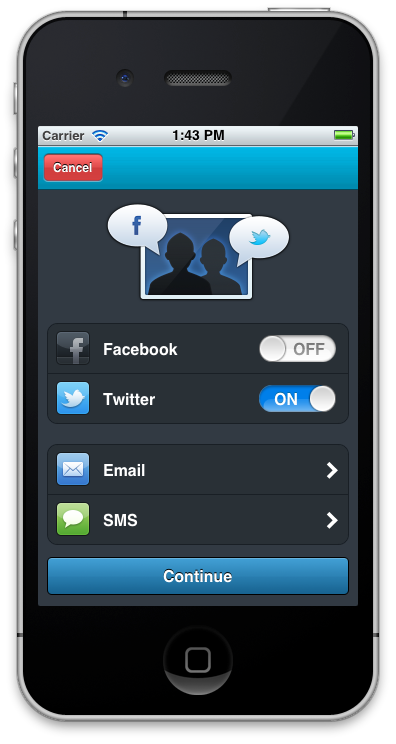
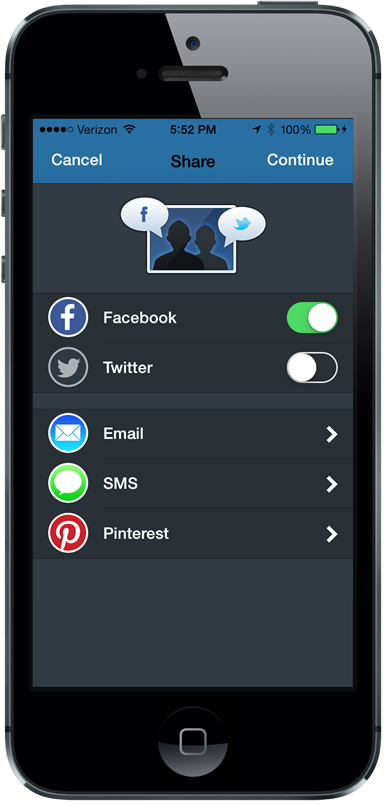
Incremental commit iOS 7 docs updates: Sharing + Changelog

diff --git a/Documentation/sphinx/source/snippets/sharing.m b/Documentation/sphinx/source/snippets/sharing.m
@@ -110,7 +110,7 @@
     share.completionBlock = ^(NSArray *shares) {
         
         // Dismiss however you want here
-        [self dismissModalViewControllerAnimated:NO];
+        [self dismissViewControllerAnimated:NO completion:nil];
     };
     
     // You can hide individual share types
@@ -121,7 +121,7 @@
 //    share.hidePinterest = YES;
     
     // Present however you want here
-    [self presentModalViewController:share animated:NO];
+    [self presentViewController:share animated:NO completion:nil];
 }
 
 // end-manual-show-share-dialog-snippet

diff --git a/Documentation/sphinx/source/changelog.rst b/Documentation/sphinx/source/changelog.rst
@@ -4,6 +4,47 @@
 Changelog
 =============================================
 
+v2.9.0
+------
+
+[feature] ShareThis SDK can integrate CocoaPods (Loopy integration prep)
+
+[feature] Share events within Socialize use the Loopy SDK.
+
+[bug] Loopy integration issues
+
+[bug] GetSat: Pre-filling the share dialog text always overrides the user's text on iOS.
+
+v2.8.10
+-------
+
+[bug] GetSat: Undefined symbols linker error when upgrading to 2.8.9
+
+[bug] GetSat: Twitter authentication problem - iOS - SDK 2.8.8 
+
+[bug] GetSat: Can't post to Twitter in iOS7
+
+[bug] GetSat: _llvm_gcov_init
+
+v2.8.9
+------
+
+[bug] GetSat: Fix landscape orientation in Authenticate dialog
+
+[bug] GetSat: Version 2.8.8 issues with NavBar
+
+v2.8.8
+------
+
+[feature] SDK work with iOS7 [ ios 7 support ]
+
+v2.8.7
+------
+
+[feature] Posts appear wrong on iPhone but right on Android
+
+[feature] Pinterest not on ActionBar
+
 v2.8.6
 ------
 [feature] prefill comment message with custom text
